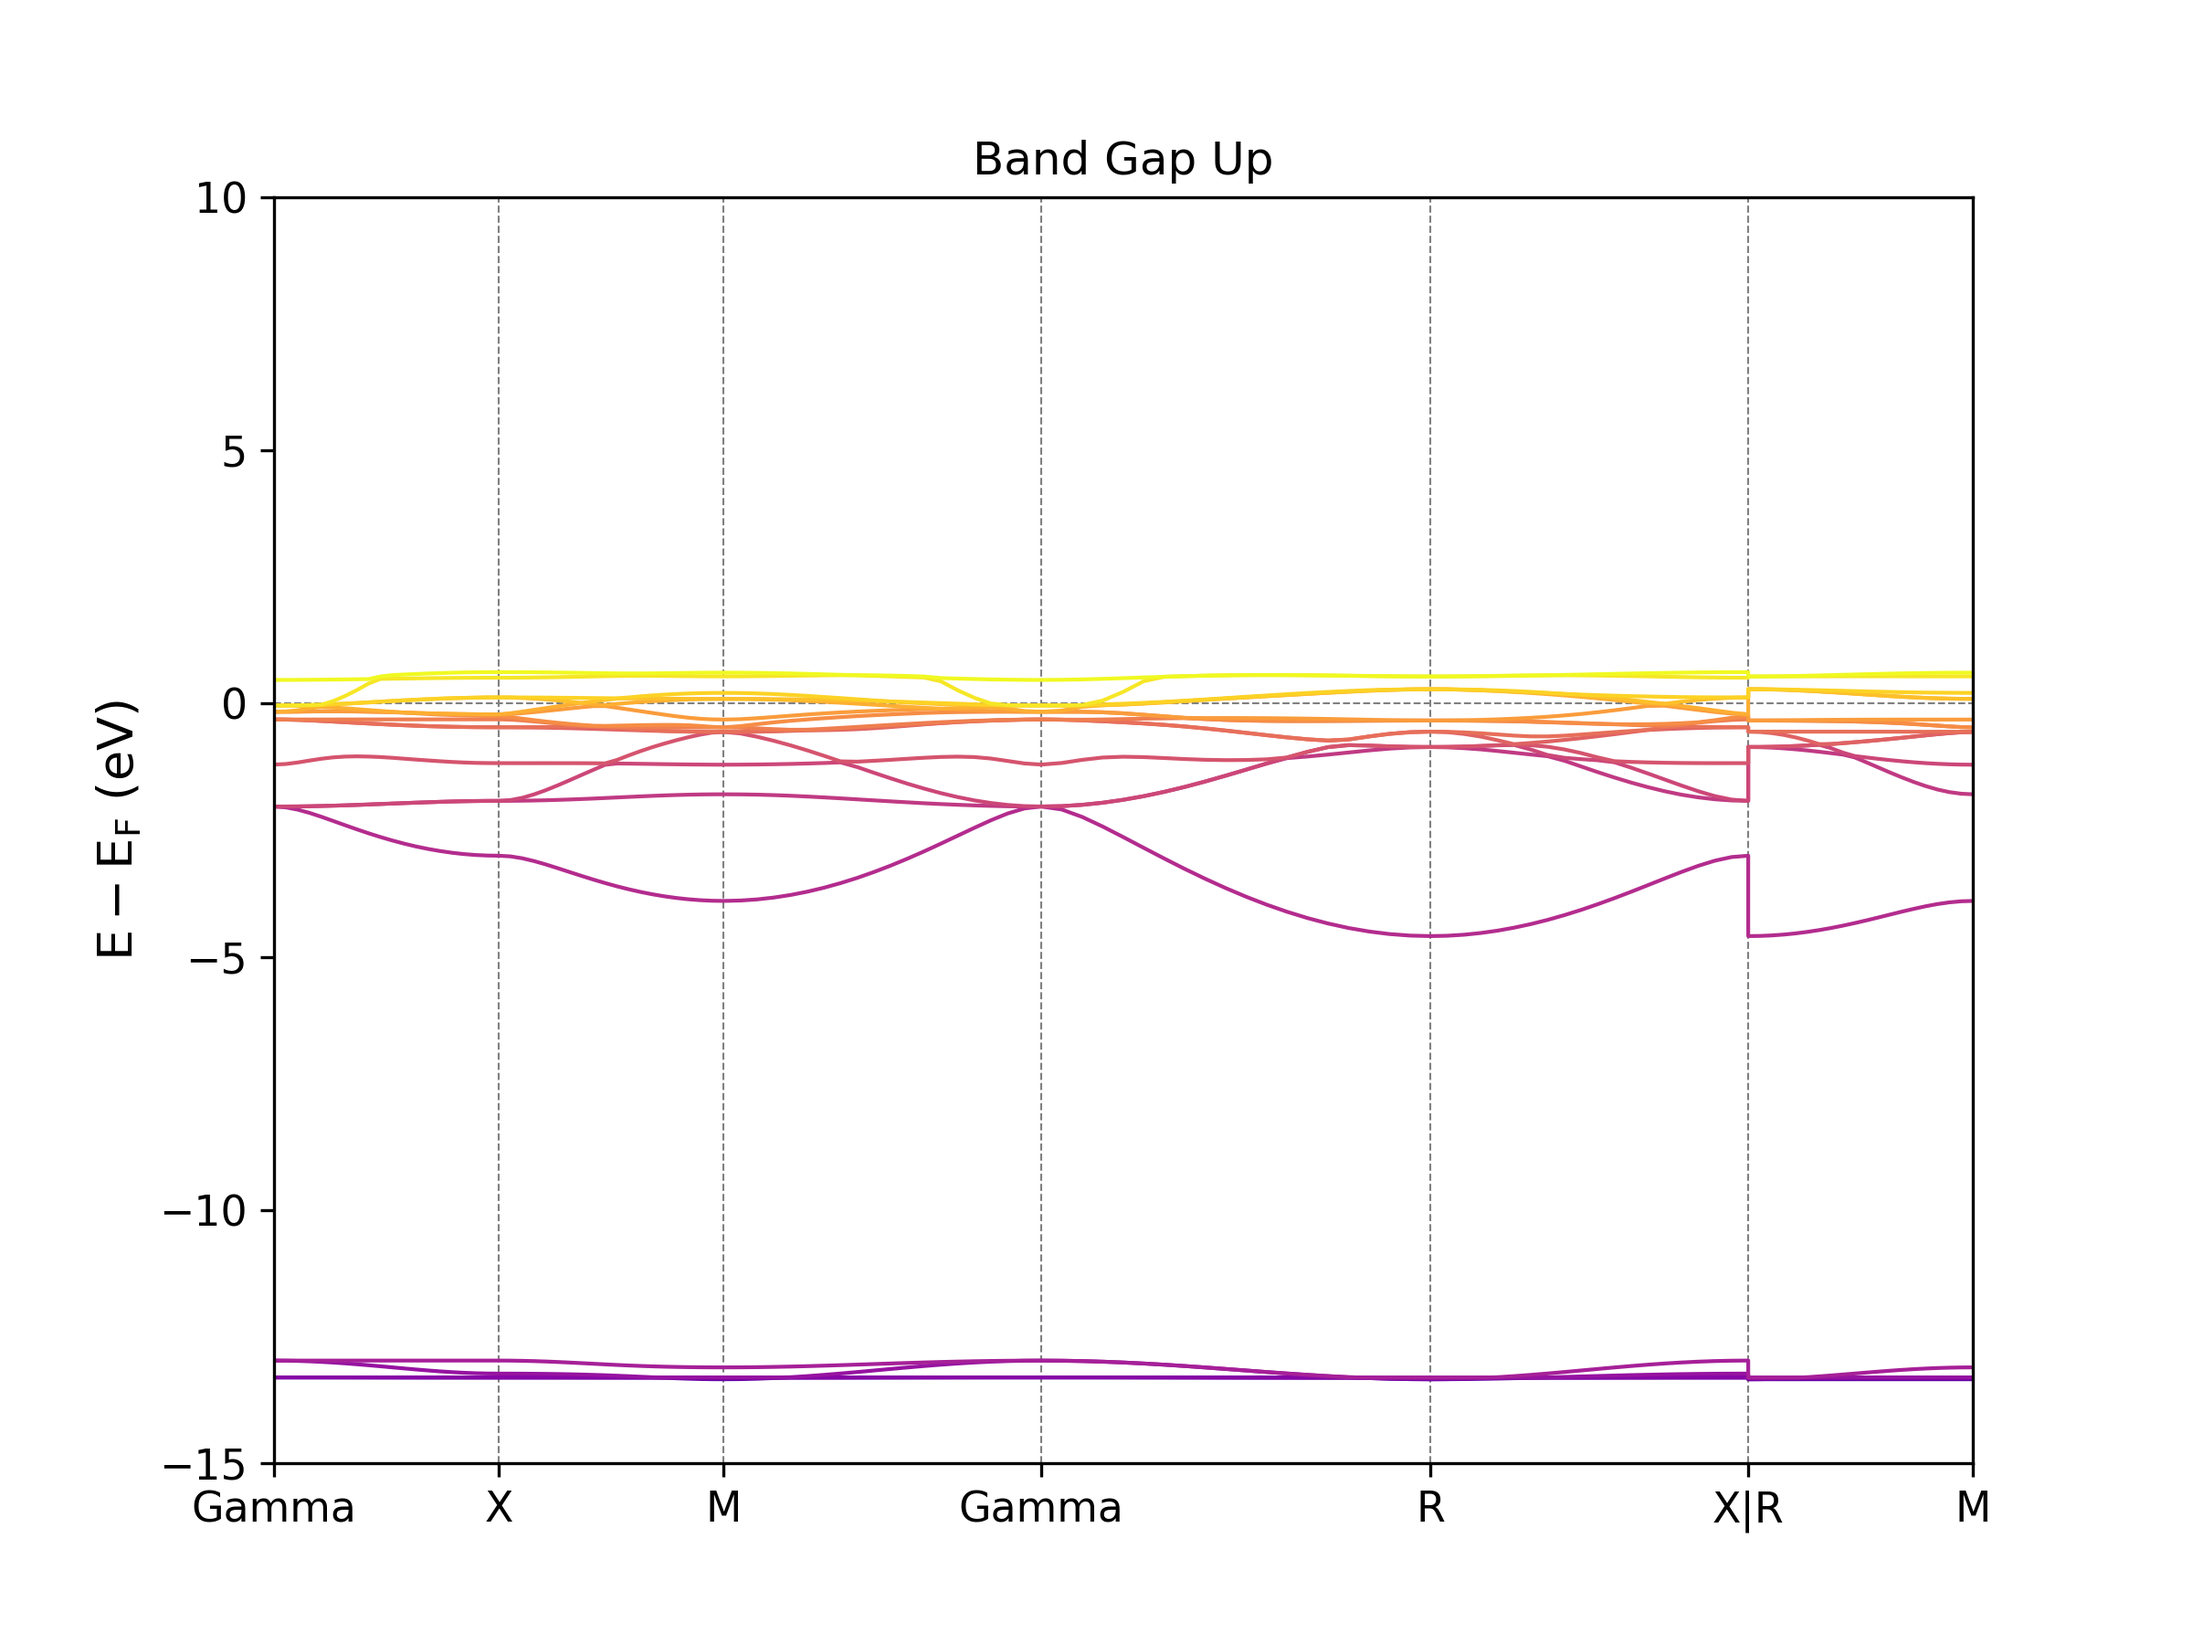
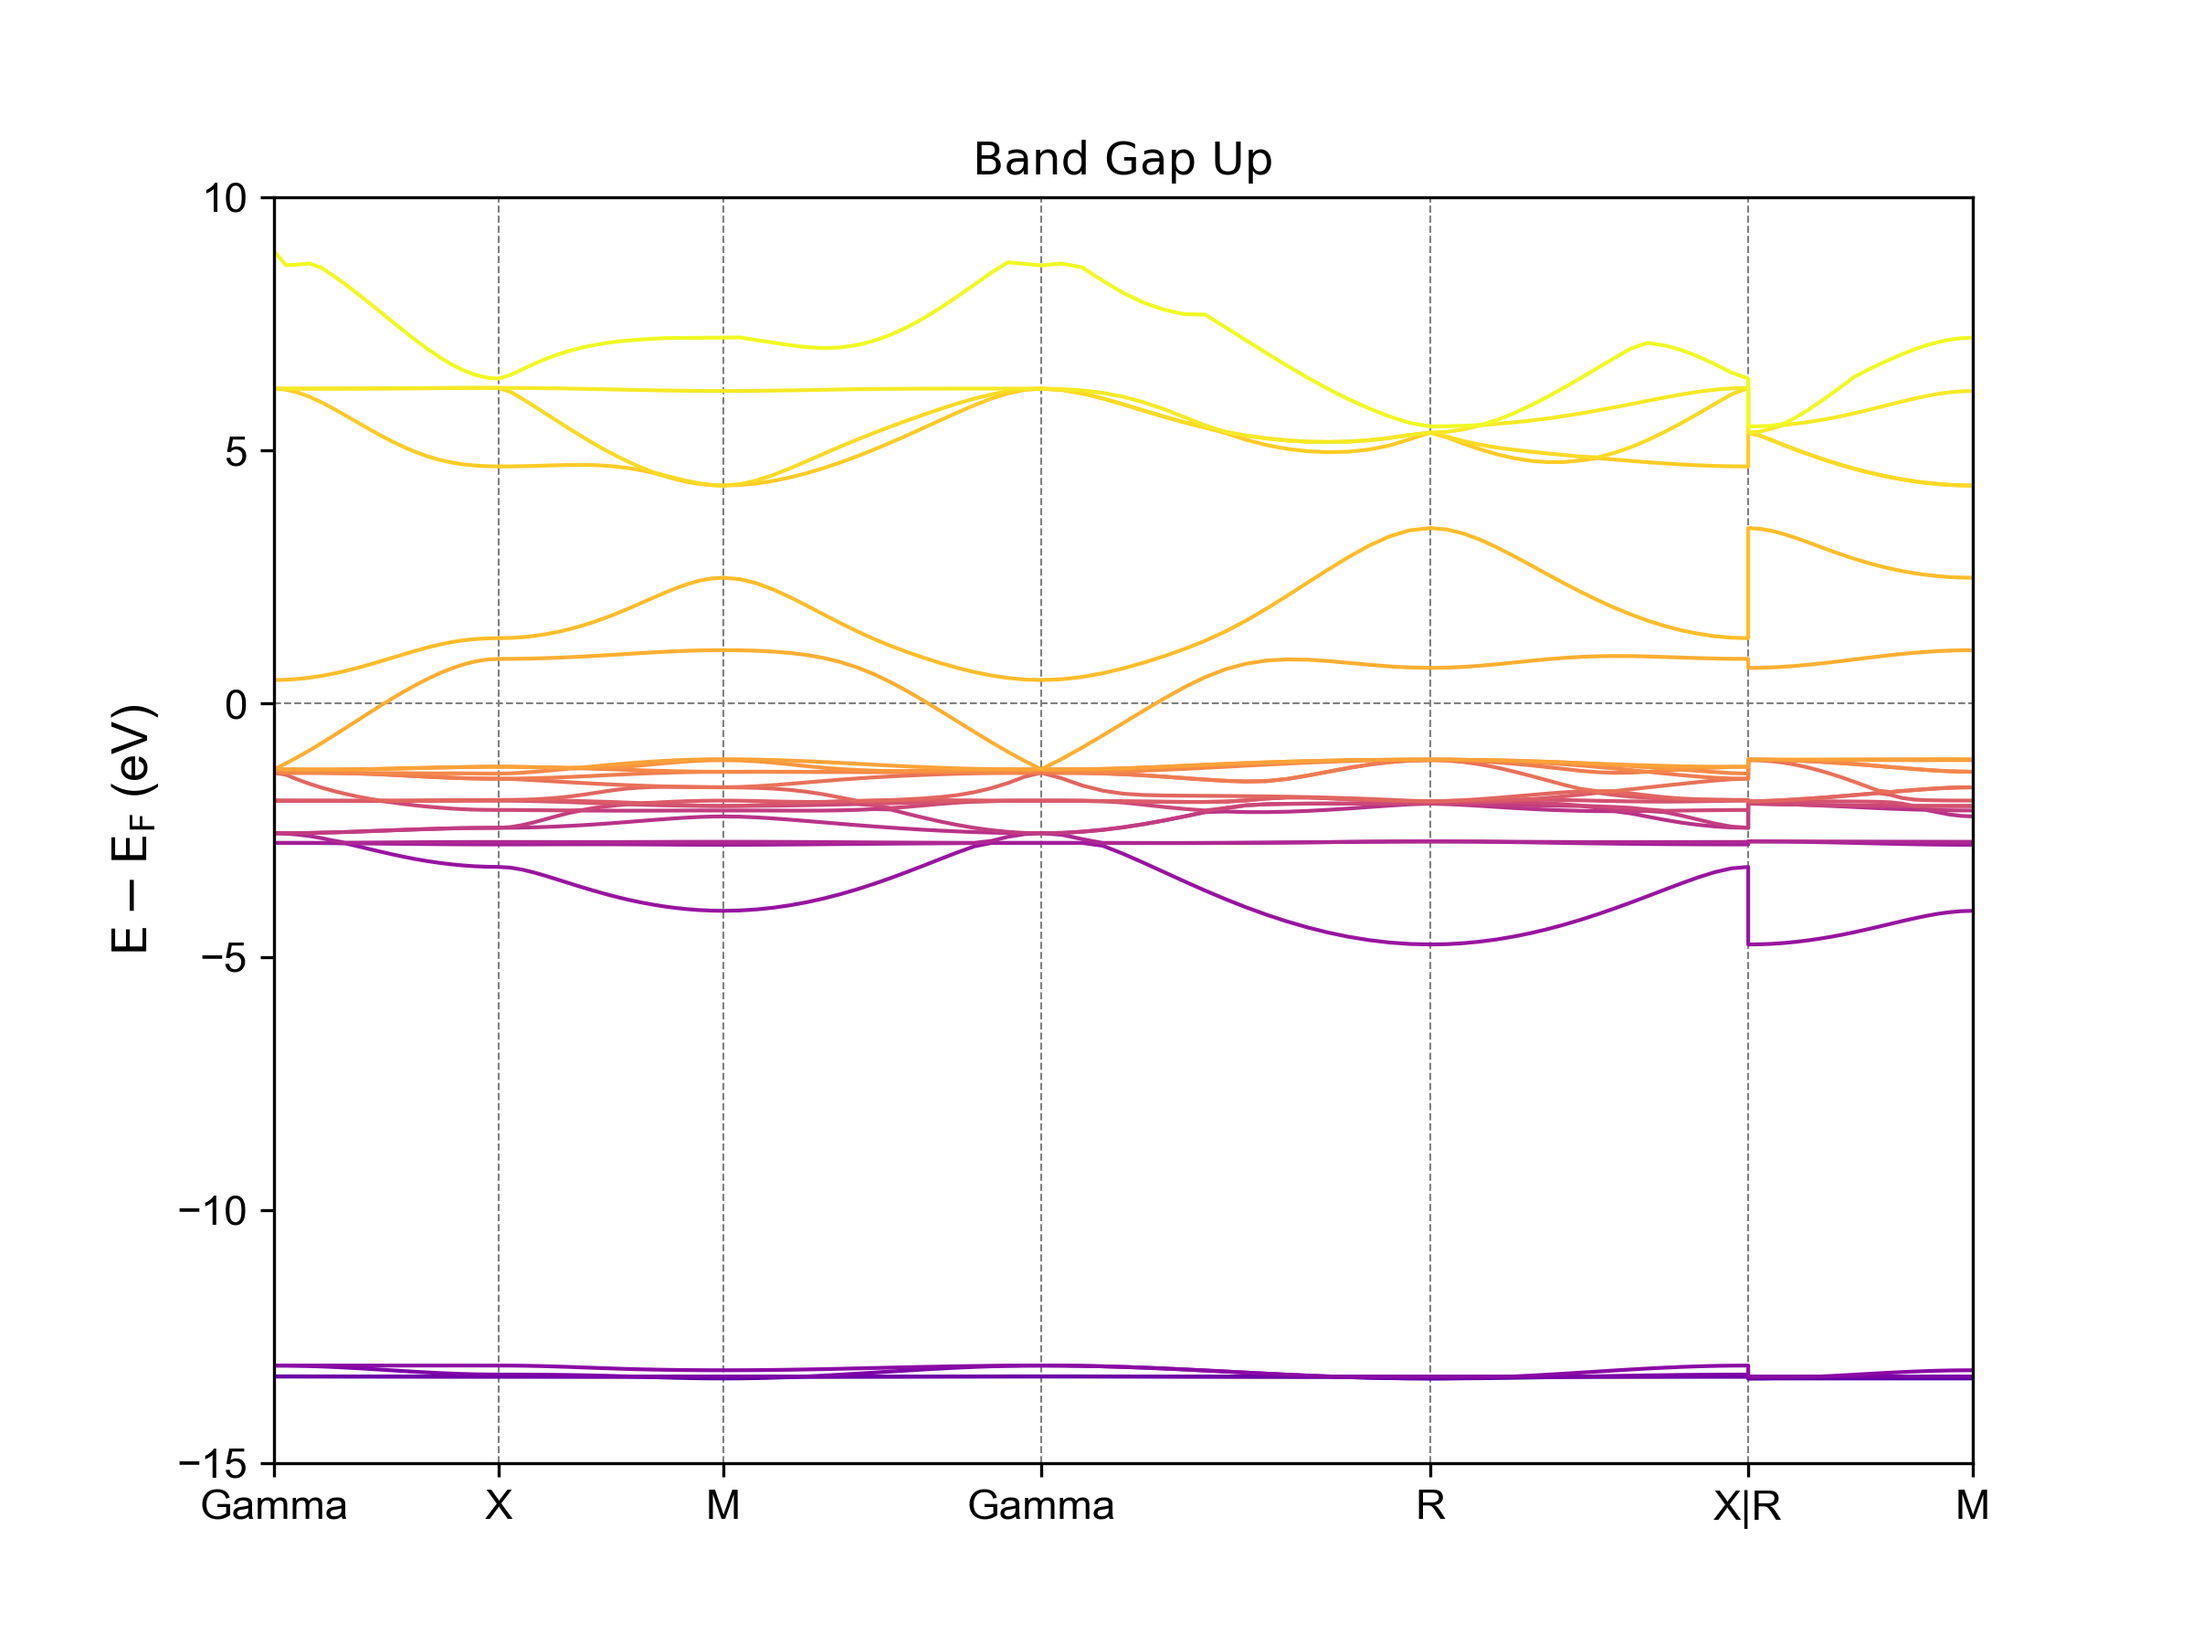
Thesis -_-

diff --git a/Thesis/test12.py b/Thesis/test12.py
@@ -40,7 +40,9 @@ fig, axe = plt.subplots(figsize=(0,111))
 axe.axhline(y=0, xmin=0, xmax=1,linestyle= '--',linewidth=0.5,color='0.5')
 for i in xtick[1:-1]:
     axe.axvline(x=i, ymin=0, ymax=1,linestyle= '--',linewidth=0.5,color='0.5')
-n=28
+a=np.shape(datas)[1]
+print(a)
+n=a
 colors = plt.cm.plasma(np.linspace(0, 1, n))
 normalize = mpl.colors.Normalize(vmin=-1, vmax=1)
 for i in range(1,n):
